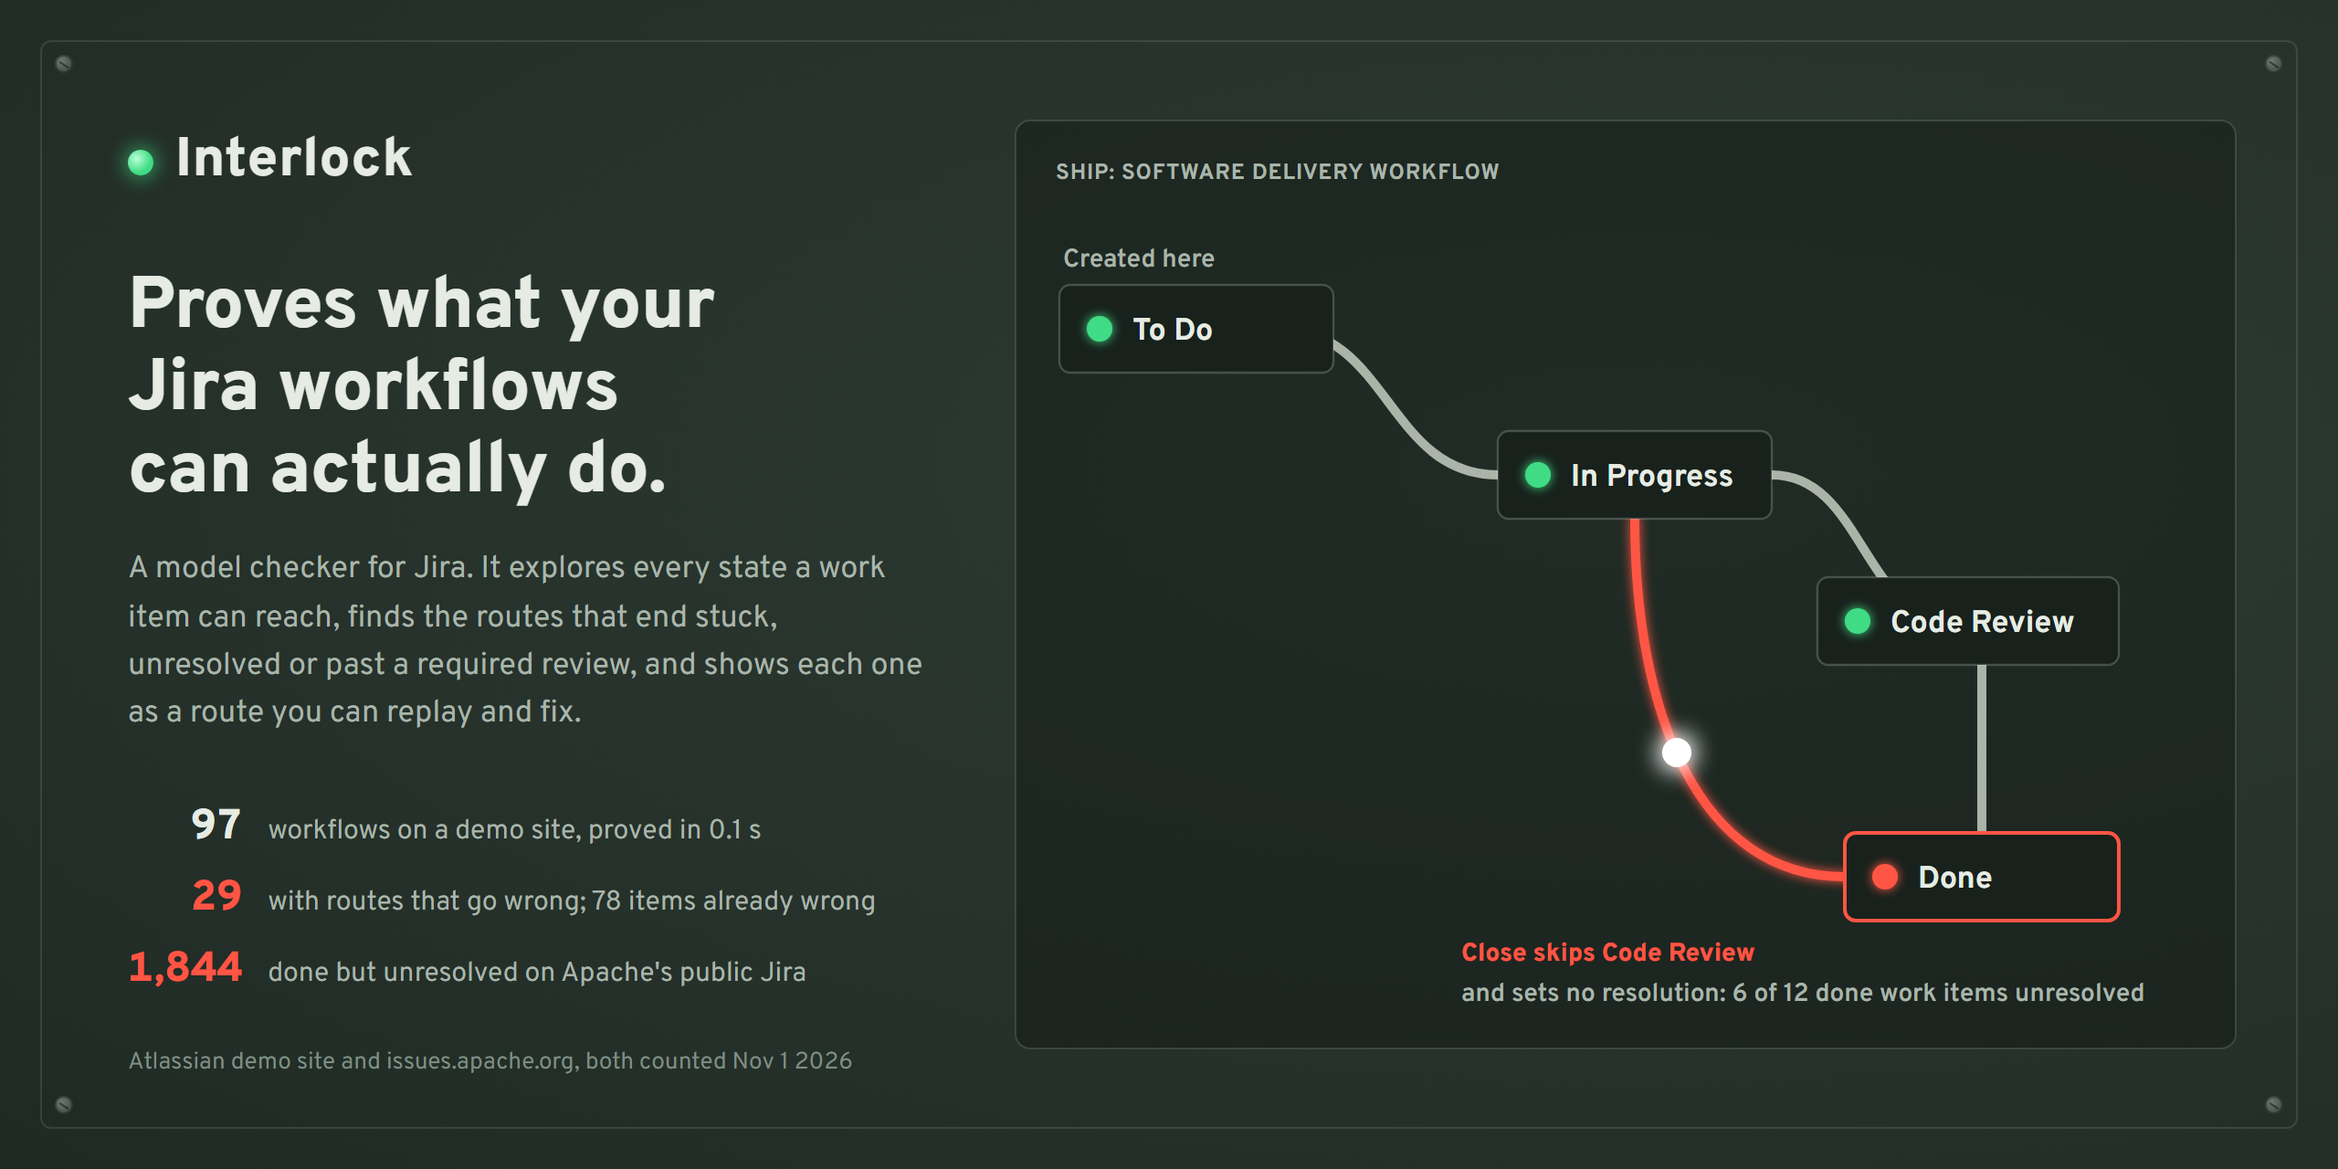
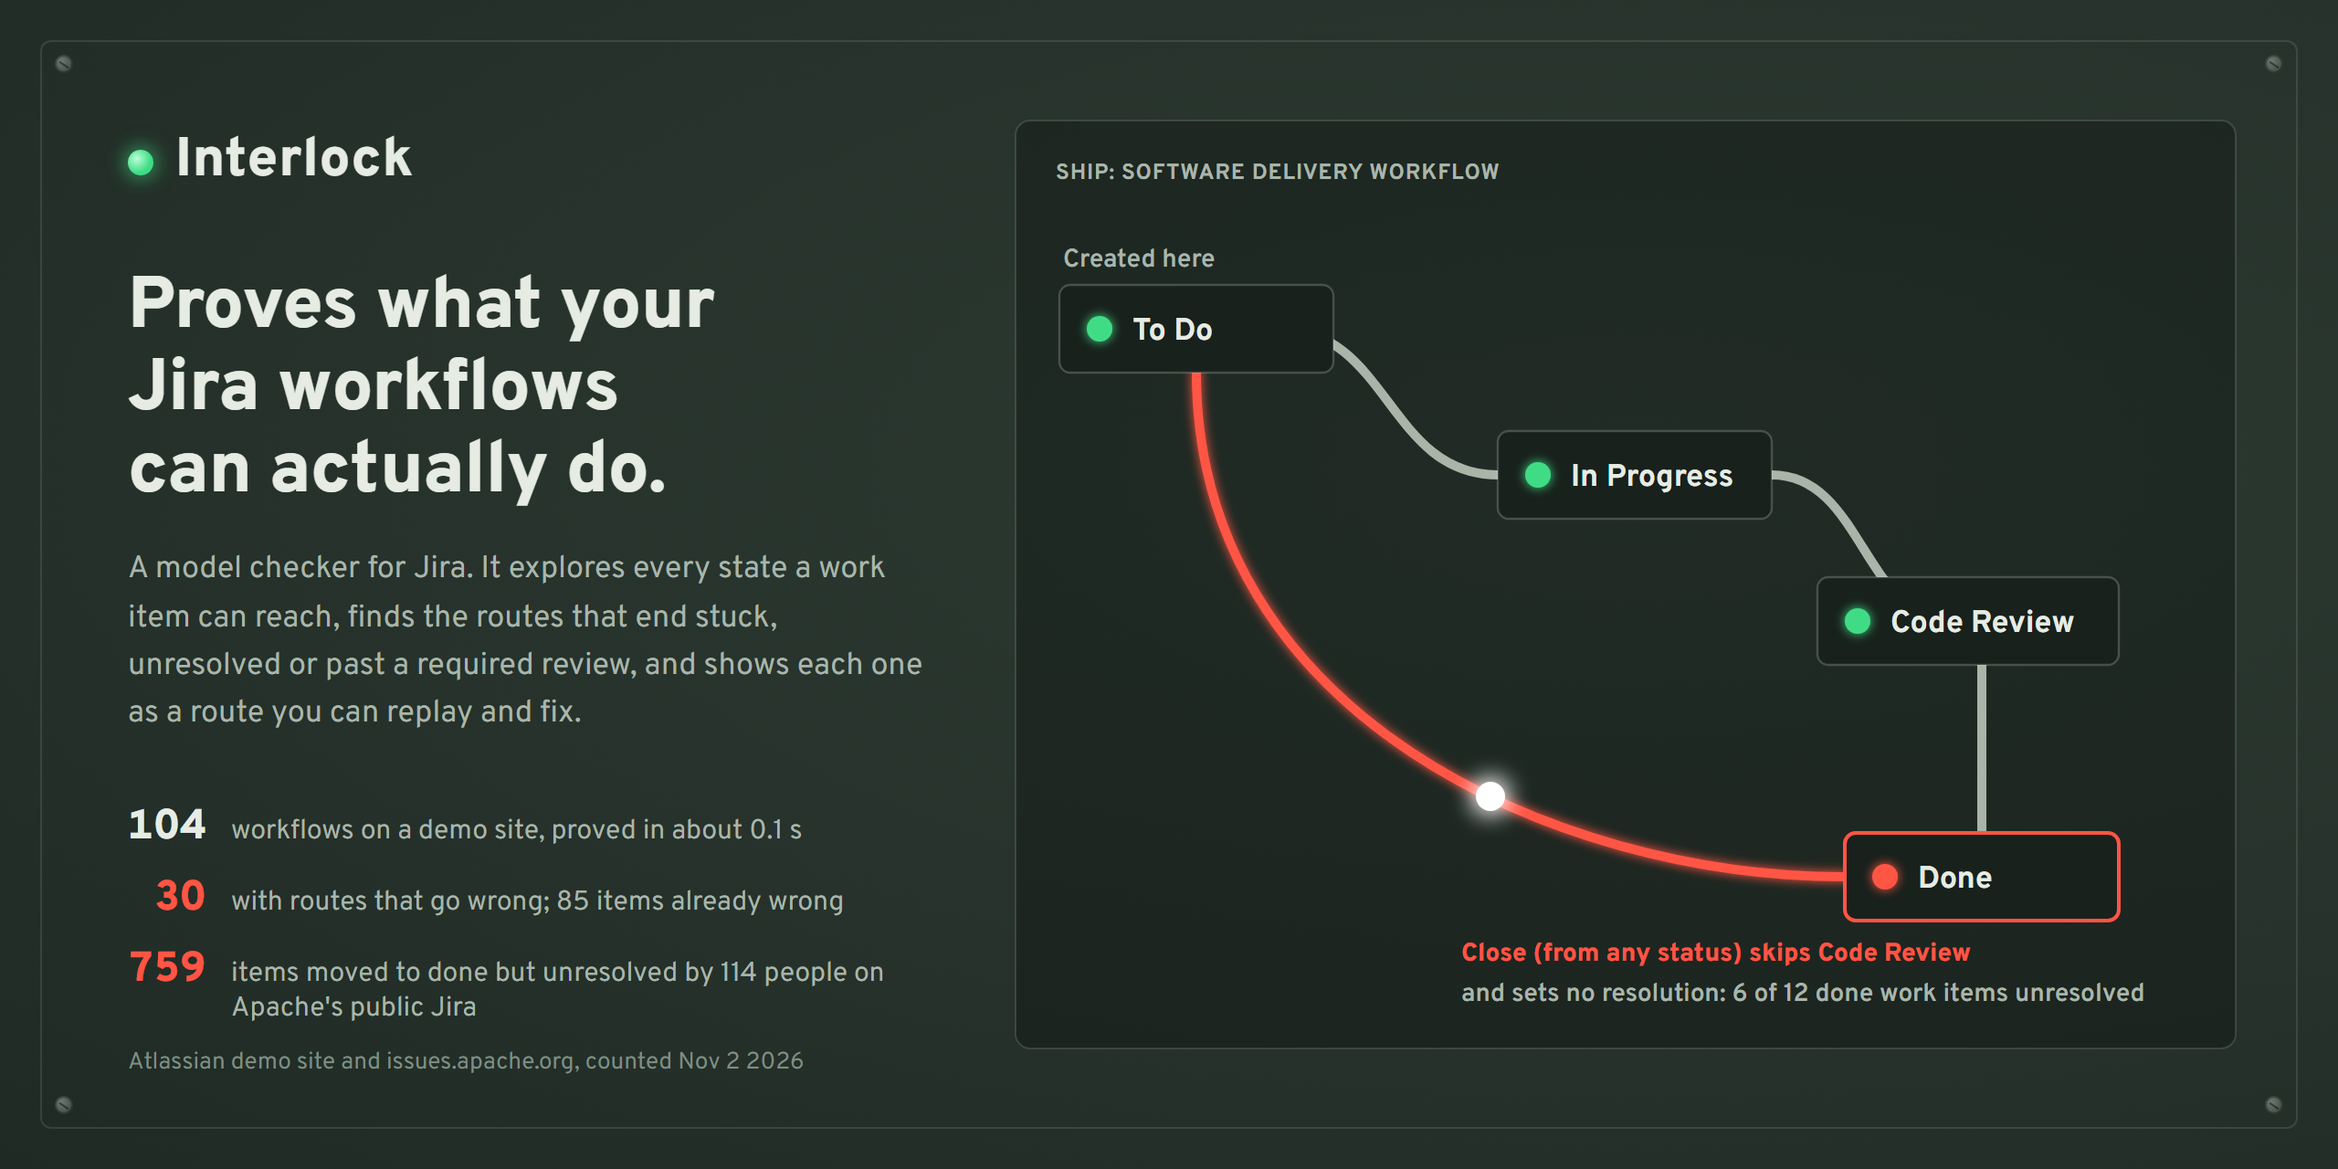
README: architecture diagram, route GIF, what the proof covers; cover on the Nov 2 numbers

diff --git a/docs/architecture/architecture.html b/docs/architecture/architecture.html
@@ -1,0 +1,104 @@
+<!doctype html>
+<html><head><meta charset="utf-8"><title>Interlock architecture</title>
+<style>
+@font-face { font-family: Overpass; src: url(../cover/Overpass.ttf); font-weight: 100 900; }
+:root { --bg: #1d2721; --panel: #26332c; --edge: #3b4a41; --text: #e9efe9; --muted: #a9b8ad; --green: #3ddc84; --red: #ff5544; --amber: #f2b33d; --track: #c9d1c9; }
+* { box-sizing: border-box; margin: 0; }
+html, body { background: var(--bg); }
+body { width: 1200px; font-family: Overpass, sans-serif; color: var(--text); padding: 26px 28px 30px; }
+.title { font-size: 27px; font-weight: 800; margin: 0 0 18px 12px; }
+.title span { font-weight: 400; font-size: 18px; color: var(--muted); margin-left: 12px; }
+.zone { border: 2px dashed #56685c; border-radius: 12px; padding: 30px 20px 20px; position: relative; }
+.zlabel { position: absolute; top: -11px; left: 18px; font-size: 14px; color: var(--muted); background: var(--bg); padding: 0 8px; font-weight: 600; }
+.row { display: grid; align-items: stretch; }
+.r1 { grid-template-columns: 250px 34px 1fr 34px 262px; }
+.r3 { grid-template-columns: 1fr 1fr 1fr; gap: 18px; margin-top: 0; }
+.box { background: var(--panel); border: 1.5px solid var(--edge); border-radius: 8px; padding: 13px 15px; }
+.box h3 { font-size: 18px; font-weight: 800; margin-bottom: 7px; }
+.box h3 small { font-weight: 400; color: var(--muted); font-size: 14px; margin-left: 6px; }
+.box p, .box li { font-size: 15px; line-height: 1.42; color: var(--muted); }
+.box ul { list-style: none; padding: 0; margin-bottom: 8px; }
+.box li { padding-left: 15px; position: relative; margin-bottom: 4px; }
+.box li::before { content: ''; position: absolute; left: 0; top: 8px; width: 6px; height: 6px; border-radius: 50%; background: var(--track); }
+.box b { color: var(--text); }
+.arrow { display: grid; place-items: center; }
+.ladder { display: flex; flex-direction: column; gap: 0; }
+.rung { background: #202b25; border: 1.5px solid var(--edge); border-radius: 8px; padding: 9px 13px; }
+.rung h4 { font-size: 16.5px; margin-bottom: 2px; display: flex; align-items: center; }
+.rung p { font-size: 14px; line-height: 1.36; color: var(--muted); }
+.rung.fix { border-color: var(--green); }
+.down { height: 18px; display: grid; place-items: center; }
+.lamp { display: inline-block; width: 12px; height: 12px; border-radius: 50%; margin-right: 9px; }
+.g { background: var(--green); box-shadow: 0 0 8px var(--green); }
+.r { background: var(--red); box-shadow: 0 0 8px var(--red); }
+.a { background: var(--amber); box-shadow: 0 0 8px var(--amber); }
+.not { border: 1.5px dashed var(--amber); border-radius: 8px; padding: 11px 13px; color: #f3d9a4; font-size: 14.5px; line-height: 1.4; margin-top: 14px; }
+.left { display: flex; flex-direction: column; }
+.store { margin: 0 auto; width: 560px; text-align: center; }
+.mid { display: grid; place-items: center; height: 30px; }
+.fan { height: 34px; }
+</style></head><body>
+<div class="title">Interlock <span>how a workflow is proved, shown and fixed</span></div>
+<div class="zone"><div class="zlabel">Runs on Atlassian: no egress, no remote backend, no AI service in the proof</div>
+
+<div class="row r1">
+  <div class="left">
+    <div class="box">
+      <h3>Your Jira site</h3>
+      <ul>
+        <li>Workflows, statuses and transitions</li>
+        <li>What each transition does to the resolution, and whether its screen asks for one</li>
+        <li>Conditions, approval steps, schemes</li>
+      </ul>
+      <p style="font-size:13.5px">Read through Jira's REST API as the admin; daily, as the app.</p>
+    </div>
+    <div class="not">Not modelled: automation rules and other apps' validators. Replay is how a route is confirmed in a real Jira.</div>
+  </div>
+  <div class="arrow"><svg width="30" height="20"><path d="M2 10 H24" stroke="#c9d1c9" stroke-width="2.4"/><path d="M20 4 L28 10 L20 16 z" fill="#c9d1c9"/></svg></div>
+  <div class="box">
+    <h3>The model checker <small>engine/interlock.mjs, plain JavaScript</small></h3>
+    <p>Every status is a state twice over: with the resolution set and with it empty, plus approval and rule progress. A breadth-first search walks every transition from where work is created, so each finding comes with its <b>shortest route</b>.</p>
+    <svg viewBox="0 0 520 190" width="100%" style="margin-top:10px; display:block">
+      <defs><marker id="mr" viewBox="0 0 10 10" refX="8" refY="5" markerWidth="7" markerHeight="7" orient="auto"><path d="M0,0 L10,5 L0,10 z" fill="#ff5544"/></marker>
+            <marker id="mg" viewBox="0 0 10 10" refX="8" refY="5" markerWidth="7" markerHeight="7" orient="auto"><path d="M0,0 L10,5 L0,10 z" fill="#c9d1c9"/></marker></defs>
+      <text x="4" y="14" fill="#a9b8ad" font-size="13" font-family="Overpass">The Ship demo workflow, simplified: a shortcut added over time</text>
+      <g font-family="Overpass">
+        <rect x="4" y="30" width="118" height="46" rx="6" fill="#151d18" stroke="#4a5a50" stroke-width="1.5"/>
+        <text x="16" y="50" fill="#e9efe9" font-size="15" font-weight="700">To Do</text><text x="16" y="67" fill="#a9b8ad" font-size="11.5">no resolution</text>
+        <rect x="196" y="30" width="128" height="46" rx="6" fill="#151d18" stroke="#4a5a50" stroke-width="1.5"/>
+        <text x="208" y="50" fill="#e9efe9" font-size="15" font-weight="700">Code Review</text><text x="208" y="67" fill="#a9b8ad" font-size="11.5">no resolution</text>
+        <rect x="396" y="30" width="118" height="46" rx="6" fill="#151d18" stroke="#3ddc84" stroke-width="1.5"/>
+        <text x="408" y="50" fill="#e9efe9" font-size="15" font-weight="700">Done</text><text x="408" y="67" fill="#a9b8ad" font-size="11.5">resolution set</text>
+        <rect x="396" y="122" width="118" height="46" rx="6" fill="#151d18" stroke="#ff5544" stroke-width="2" style="filter: drop-shadow(0 0 6px rgba(255,85,68,.6))"/>
+        <text x="408" y="142" fill="#e9efe9" font-size="15" font-weight="700">Done</text><text x="408" y="159" fill="#ff8a7d" font-size="11.5">no resolution</text>
+        <path d="M122 53 H192" stroke="#c9d1c9" stroke-width="2.2" marker-end="url(#mg)"/>
+        <path d="M324 53 H392" stroke="#c9d1c9" stroke-width="2.2" marker-end="url(#mg)"/>
+        <path d="M63 76 C 70 140, 200 145, 392 145" stroke="#ff5544" stroke-width="3.2" fill="none" marker-end="url(#mr)" style="filter: drop-shadow(0 0 4px rgba(255,85,68,.8))"/>
+        <text x="150" y="168" fill="#ff8a7d" font-size="13">Close (from any status)</text>
+      </g>
+    </svg>
+    <p style="margin-top:4px">The finding: <b style="color:#ff8a7d">done but unresolved</b>, and the rule "Done only through Code Review" is broken.</p>
+  </div>
+  <div class="arrow"><svg width="30" height="20"><path d="M2 10 H24" stroke="#c9d1c9" stroke-width="2.4"/><path d="M20 4 L28 10 L20 16 z" fill="#c9d1c9"/></svg></div>
+  <div class="ladder">
+    <div class="rung"><h4><span class="lamp g"></span>Proved</h4><p>The route exists in the workflow.</p></div>
+    <div class="down"><svg width="16" height="16"><path d="M8 0 V10" stroke="#c9d1c9" stroke-width="2"/><path d="M3 8 L8 15 L13 8 z" fill="#c9d1c9"/></svg></div>
+    <div class="rung"><h4><span class="lamp a"></span>In your data</h4><p>Jira search counts the work items already there; their history shows which step put them there.</p></div>
+    <div class="down"><svg width="16" height="16"><path d="M8 0 V10" stroke="#c9d1c9" stroke-width="2"/><path d="M3 8 L8 15 L13 8 z" fill="#c9d1c9"/></svg></div>
+    <div class="rung"><h4><span class="lamp r"></span>Replayed</h4><p>A new work item walks the route; a second look after automation runs.</p></div>
+    <div class="down"><svg width="16" height="16"><path d="M8 0 V10" stroke="#c9d1c9" stroke-width="2"/><path d="M3 8 L8 15 L13 8 z" fill="#c9d1c9"/></svg></div>
+    <div class="rung fix"><h4>Fix at the cause</h4><p>Jira validates the change, an admin applies it, the site is proved again. Undo restores it.</p></div>
+  </div>
+</div>
+
+<div class="mid"><svg width="16" height="26"><path d="M8 0 V18" stroke="#c9d1c9" stroke-width="2.2"/><path d="M3 16 L8 24 L13 16 z" fill="#c9d1c9"/></svg></div>
+<div class="box store"><h3 style="font-size:16px; margin-bottom:3px">Forge app storage</h3><p>Saved rules, findings marked as intended, applied fixes for Undo, the last proof for the watch</p></div>
+<svg class="fan" width="1116" height="34" style="display:block"><g stroke="#c9d1c9" stroke-width="2.2" fill="none"><path d="M558 0 V12 M184 12 H932 M184 12 V26 M558 12 V26 M932 12 V26"/></g><g fill="#c9d1c9"><path d="M179 24 L184 33 L189 24 z"/><path d="M553 24 L558 33 L563 24 z"/><path d="M927 24 L932 33 L937 24 z"/></g></svg>
+
+<div class="row r3">
+  <div class="box"><h3>Interlock page <small>admins only</small></h3><p>Every workflow, worst first. The track diagram lights the bad route. Rules are proved again in the browser as you write them, and a broken one comes with the smallest change that makes it hold.</p></div>
+  <div class="box"><h3>Daily watch</h3><p>A scheduled trigger proves every workflow again and compares it with the last proof. New findings are reported as one work item in a project an admin picks.</p></div>
+  <div class="box"><h3>Rovo agent and MCP server</h3><p>Three tools, check-workflows, get-workflow-findings and prove-route, answer in Rovo and for any MCP client. An open skill file tells agents how to use them.</p></div>
+</div>
+</div>
+</body></html>

diff --git a/docs/cover/cover.html b/docs/cover/cover.html
@@ -46,12 +46,12 @@ svg.mimic { position: absolute; right: 50px; top: 60px; width: 680px; height: 52
   <h1>Proves what your Jira workflows can actually do.</h1>
   <p class="lede">A model checker for Jira. It explores every state a work item can reach, finds the routes that end stuck, unresolved or past a required review, and shows each one as a route you can replay and fix.</p>
   <dl>
-    <dt>97</dt><dd>workflows on a demo site, proved in 0.1 s</dd>
-    <dt class="red">29</dt><dd>with routes that go wrong; 78 items already wrong</dd>
-    <dt class="red">1,844</dt><dd>done but unresolved on Apache's public Jira</dd>
+    <dt>104</dt><dd>workflows on a demo site, proved in about 0.1 s</dd>
+    <dt class="red">30</dt><dd>with routes that go wrong; 85 items already wrong</dd>
+    <dt class="red">759</dt><dd>items moved to done but unresolved by 114 people on Apache's public Jira</dd>
   </dl>
 </div>
-<div class="foot">Atlassian demo site and issues.apache.org, both counted Nov 1 2026</div>
+<div class="foot">Atlassian demo site and issues.apache.org, counted Nov 2 2026</div>
 
 <svg class="mimic" viewBox="0 0 680 520">
   <defs>
@@ -67,7 +67,7 @@ svg.mimic { position: absolute; right: 50px; top: 60px; width: 680px; height: 52
   <path class="trk" d="M420,200 C470,200 470,280 520,280"/>
   <path class="trk" d="M535,304 L535,396"/>
   <!-- the route that skips Code Review: lit -->
-  <path id="bypass" class="trk route" d="M345,224 C345,330 380,420 460,420"/>
+  <path id="bypass" class="trk route" d="M105,144 C105,330 300,420 460,420"/>
 
   <!-- blocks -->
   <g class="blk" transform="translate(30,96)"><rect width="150" height="48" rx="6"/><circle cx="22" cy="24" r="7"/><text x="40" y="30">To Do</text></g>
@@ -76,10 +76,10 @@ svg.mimic { position: absolute; right: 50px; top: 60px; width: 680px; height: 52
   <g class="blk bad" transform="translate(460,396)"><rect width="150" height="48" rx="6"/><circle cx="22" cy="24" r="7"/><text x="40" y="30">Done</text></g>
 
   <text class="lbl" x="32" y="86">Created here</text>
-  <text class="lbl red" x="250" y="466">Close skips Code Review</text>
+  <text class="lbl red" x="250" y="466">Close (from any status) skips Code Review</text>
   <text class="lbl" x="250" y="488">and sets no resolution: 6 of 12 done work items unresolved</text>
 
   <!-- the train, part way along the bypass -->
-  <circle class="train" r="8" cx="368" cy="352"/>
+  <circle class="train" r="8" cx="266" cy="376"/>
 </svg>
 </body></html>

diff --git a/README.md b/README.md
@@ -8,6 +8,8 @@ Railway signal boxes solved this a century ago with interlocking: the frame phys
 
 It is for Jira administrators and the teams who rely on Jira's numbers: service desks reporting SLAs and change volumes, software teams with review rules, anyone whose release report counts resolved work.
 
+![Interlock: selecting a workflow lights its bad route, and a train runs along it](docs/media/interlock-routes.gif)
+
 ## What it finds
 
 | Property | What it means |
@@ -31,7 +33,7 @@ A proof says what *can* happen. Interlock then takes each finding as far as it c
 2. **In your data.** For resolution findings, Interlock counts the work items in the projects using that workflow that are already in the bad state, using Jira's own search. On an Atlassian demo site on Nov 1, 2026, before we added anything, 29 of its 97 workflows had routes that go wrong and 78 work items in its sample projects were already in a wrong state. (Today the same site, with our own Ship and TPL projects added, has 104 workflows, 30 with findings and 85 work items wrong.) The count is split by status, so each finding shows its own items, and **How did they get there?** reads the history of up to 50 of them and counts the step that put each one there: on the procurement project, 46 of the 50 most recently changed came Accepted → Purchased with the resolution left as it was, the very step the proof flagged (once that step is fixed, the page says the items already there are left over from before). Items created or imported in that state, and steps with no author (migrations, scripts), are counted apart, not blamed on a route.
 3. **Replayed.** One click creates a new work item and walks it down the route through Jira's transitions API, filling in each transition screen the way a person would. It reads back the status and resolution after every step, and once more a few seconds after the last one, so an automation rule that repairs the resolution shows up and the route is reported safe.
 
-Then **fix at the cause**: for resolution findings, Interlock adds *Set resolution* or *Clear resolution* to the transitions involved. Jira validates the change first, and Interlock saves it only when an admin clicks Apply. The whole site is then proved again.
+Then **fix at the cause**: for resolution findings, Interlock adds *Set resolution* or *Clear resolution* to the transitions involved. Jira validates the change first, and Interlock saves it only when an admin clicks Apply. The whole site is then proved again. The workflow's card names every project that uses it, because a fix reaches all of them.
 
 On that demo site (before we added our own Ship and TPL projects), 13 of the 29 workflows with findings are copies of Jira Service Management template workflows; the Change Management workflow has six copies (five in use) with the same five findings, and one was confirmed on a real work item: a declined change sent back to Review stays resolved as Declined. A project created from the same template today does not have that route, so these copies come from an earlier version of the template or were edited after they were made. Either way, nothing in Jira tells an admin which workflows still carry such routes; Interlock does. The full list is in [Resolution defects in template-made workflows](docs/atlassian-templates.md).
 
@@ -54,6 +56,11 @@ On any site without it, **Add the Ship demo project** builds a seeded demo: a de
 
 ## How it works
 
+![How Interlock proves, shows and fixes a workflow](docs/architecture/architecture.png)
+
+**What the proof covers:** statuses, directed and global transitions, resolution post-functions, transition screens, condition trees (a condition that depends on who is asking counts as passable unless it allows no one) and approval steps. Automation rules and other apps' validators are not in the proof; Replay catches them, because it looks again after automation has run, and an admin can mark any route as intended.
+
+
 - `engine/interlock.mjs` builds a model from `GET /rest/api/3/workflows/search` with transitions expanded:
   - statuses with their categories;
   - directed and global transitions;
@@ -61,7 +68,7 @@ On any site without it, **Add the Ship demo project** builds a seeded demo: a de
   - whether its conditions let anyone use it.
 - A breadth-first search over (status, resolution set) states finds every reachable state, with parent links, so every finding comes with its shortest route.
 - Team-managed projects keep the resolution in step with done statuses themselves, and the model knows that.
-- Checking all 97 workflows on that demo site, 761 transitions in all, takes well under 100 ms once the configuration is loaded (the page shows the time it took). Loading it over the REST API takes 10 to 20 seconds the first time on a site that size; later checks reuse the transition-screen answers for 10 minutes and take about half as long. The engine is plain JavaScript with no dependencies, and the page runs it again in the browser whenever you change a rule.
+- Checking all 104 workflows on that demo site, 824 transitions in all, takes 39 to 127 ms once the configuration is loaded (the page shows the time it took). Loading it over the REST API takes 10 to 20 seconds the first time on a site that size; later checks reuse the transition-screen answers for 10 minutes and take about half as long. The engine is plain JavaScript with no dependencies, and the page runs it again in the browser whenever you change a rule.
 
 ## Permissions
 
